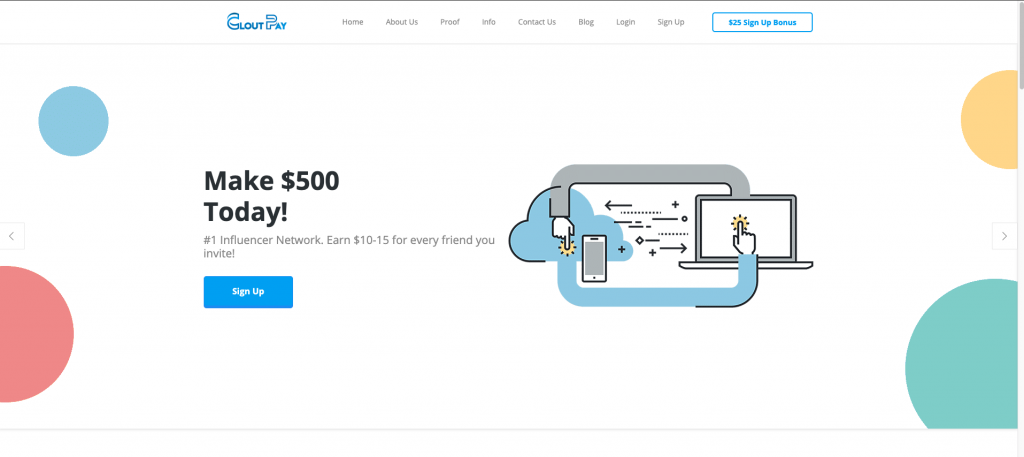
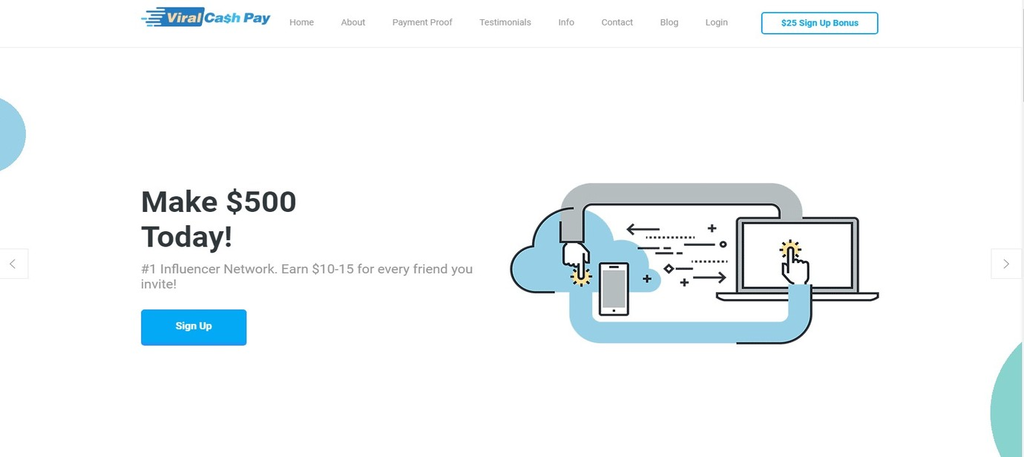
viral cash pay image add

diff --git a/is-clout-pay-a-scam/index.html b/is-clout-pay-a-scam/index.html
@@ -445,7 +445,7 @@ span.posted-on {
 			
 <article id="post-271" class="post-271 post type-post status-publish format-standard has-post-thumbnail hentry category-legit tag-clout-pay tag-cloutpay-co tag-scam-verify">
 	<header class="entry-header">
-		<h1 class="entry-title">Is Clout Pay A Scam? Clout Pay Honest Review</h1>		<div class="entry-meta">
+		<h1 class="entry-title">Is Viral Cash Pay A Scam? Clout Pay Honest Review</h1>		<div class="entry-meta">
 			<span class="posted-on"><a href="  " rel="bookmark"><time class="entry-date published" datetime="2019-06-01T00:29:34+00:00">June 1, 2019</time><time class="updated" datetime="2019-06-18T14:58:32+00:00">June 18, 2019</time></a></span><span class="byline"> <span class="author vcard"><a class="url fn n" href="../  ">Clarissa Stevens</a></span></span>		</div><!-- .entry-meta -->
 	</header><!-- .entry-header -->
 
@@ -457,7 +457,7 @@ span.posted-on {
 	<section id="review-statistics" class="article-section">
 		<div class="review-wrap-up  cwpr_clearfix">
 			<div class="cwpr-review-top cwpr_clearfix">
-				<h2 class="cwp-item">Clout Pay</h2>
+				<h2 class="cwp-item">Viral Cash Pay</h2>
 				<span class="cwp-item-price cwp-item">Free Service</span>
 			</div><!-- end .cwpr-review-top -->
 			<div class="review-wu-content cwpr_clearfix">
@@ -467,7 +467,7 @@ span.posted-on {
 									<a title="Clout Pay" class="wppr-default-img" href="https://share.cloutpay.co/scamverify"  rel="nofollow" target="_blank">
 			<img
 				src="../wp-content/uploads/2019/05/alt-logo-150x150.png"
-				alt="Clout Pay"
+				alt="Viral Cash Pay"
 				class="photo photo-wrapup wppr-product-image"/>
 		</a>
 								</div>
